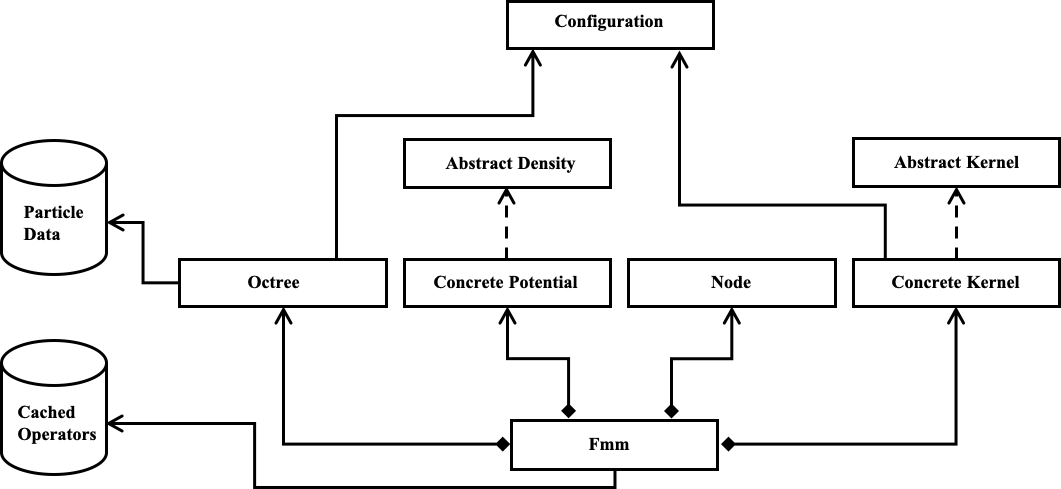
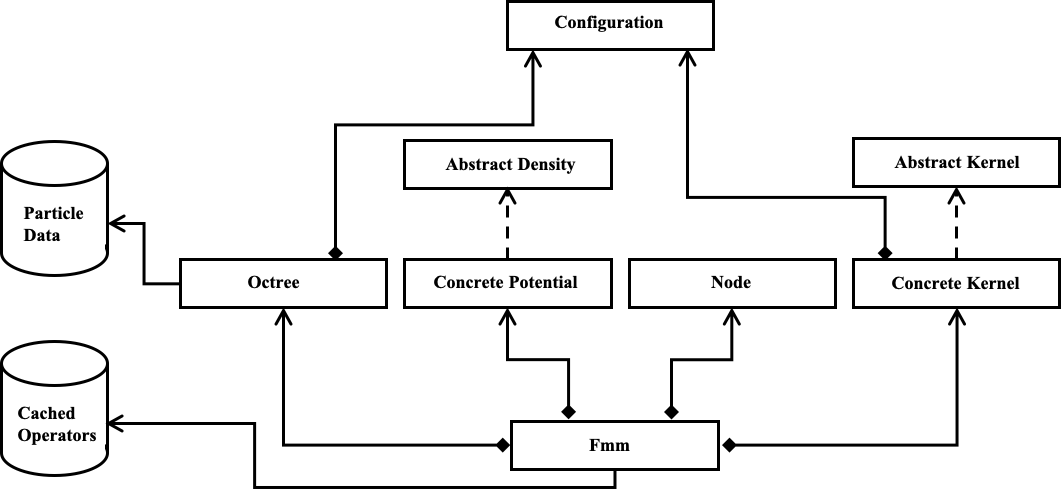
Add missing diamond arrow heads

diff --git a/chapters/chapter03/benchmarking.tex b/chapters/chapter03/benchmarking.tex
@@ -2,23 +2,30 @@
     - comment on the programmer efficiency in simply decorating with Numba
 
 - Estimate cost savings from each parallelization step
-- Multiproc
-- SVD compression
 - numba
 - hdf5 vs pickle
+- multiproc
 
 - Compare experimental results for FMM vs Direct computation as a function of number of particles for the LAPLACE KERNEL!!!!. Justify usage of laplace kernel (paradigm, easy etc.)
 
 - [DIAGRAM] Need to plot the computational complexity.
 
 - Understand cost of computation via pyexafmm compared to state of the art exafmm-t.
-    - Comment on where the slowness comes from
-        - no parallelism for operator evaluations
-        - no parallelism for memory sharing
-            - lots of copying of same data.
-        - subtoptimal data formats for m2l - lots of loading.
-        - suboptimal size of data structures lead to loading from non-cpu memory - which is slow - could be optimized via numexpr etc in the future or more intricate chunking of memory.
-    - These are justifiable from the time constraints on full-time development.
+
+- Comment on where the slowness comes from
+
+- no parallelism for operator evaluations
+
+- no parallelism for memory sharing
+
+- lots of copying of same data.
+
+- subtoptimal data formats for m2l - lots of loading.
+
+- suboptimal size of data structures lead to loading from non-cpu memory - which is slow - could be optimized via numexpr etc in the future or more intricate chunking of memory.
+
+- These are justifiable from the time constraints on full-time development.
 
 Figures required:
-    - KEY RESULT: Benchmarking figure as a function of N-particles
+
+- KEY RESULT: Benchmarking figure as a function of N-particles
